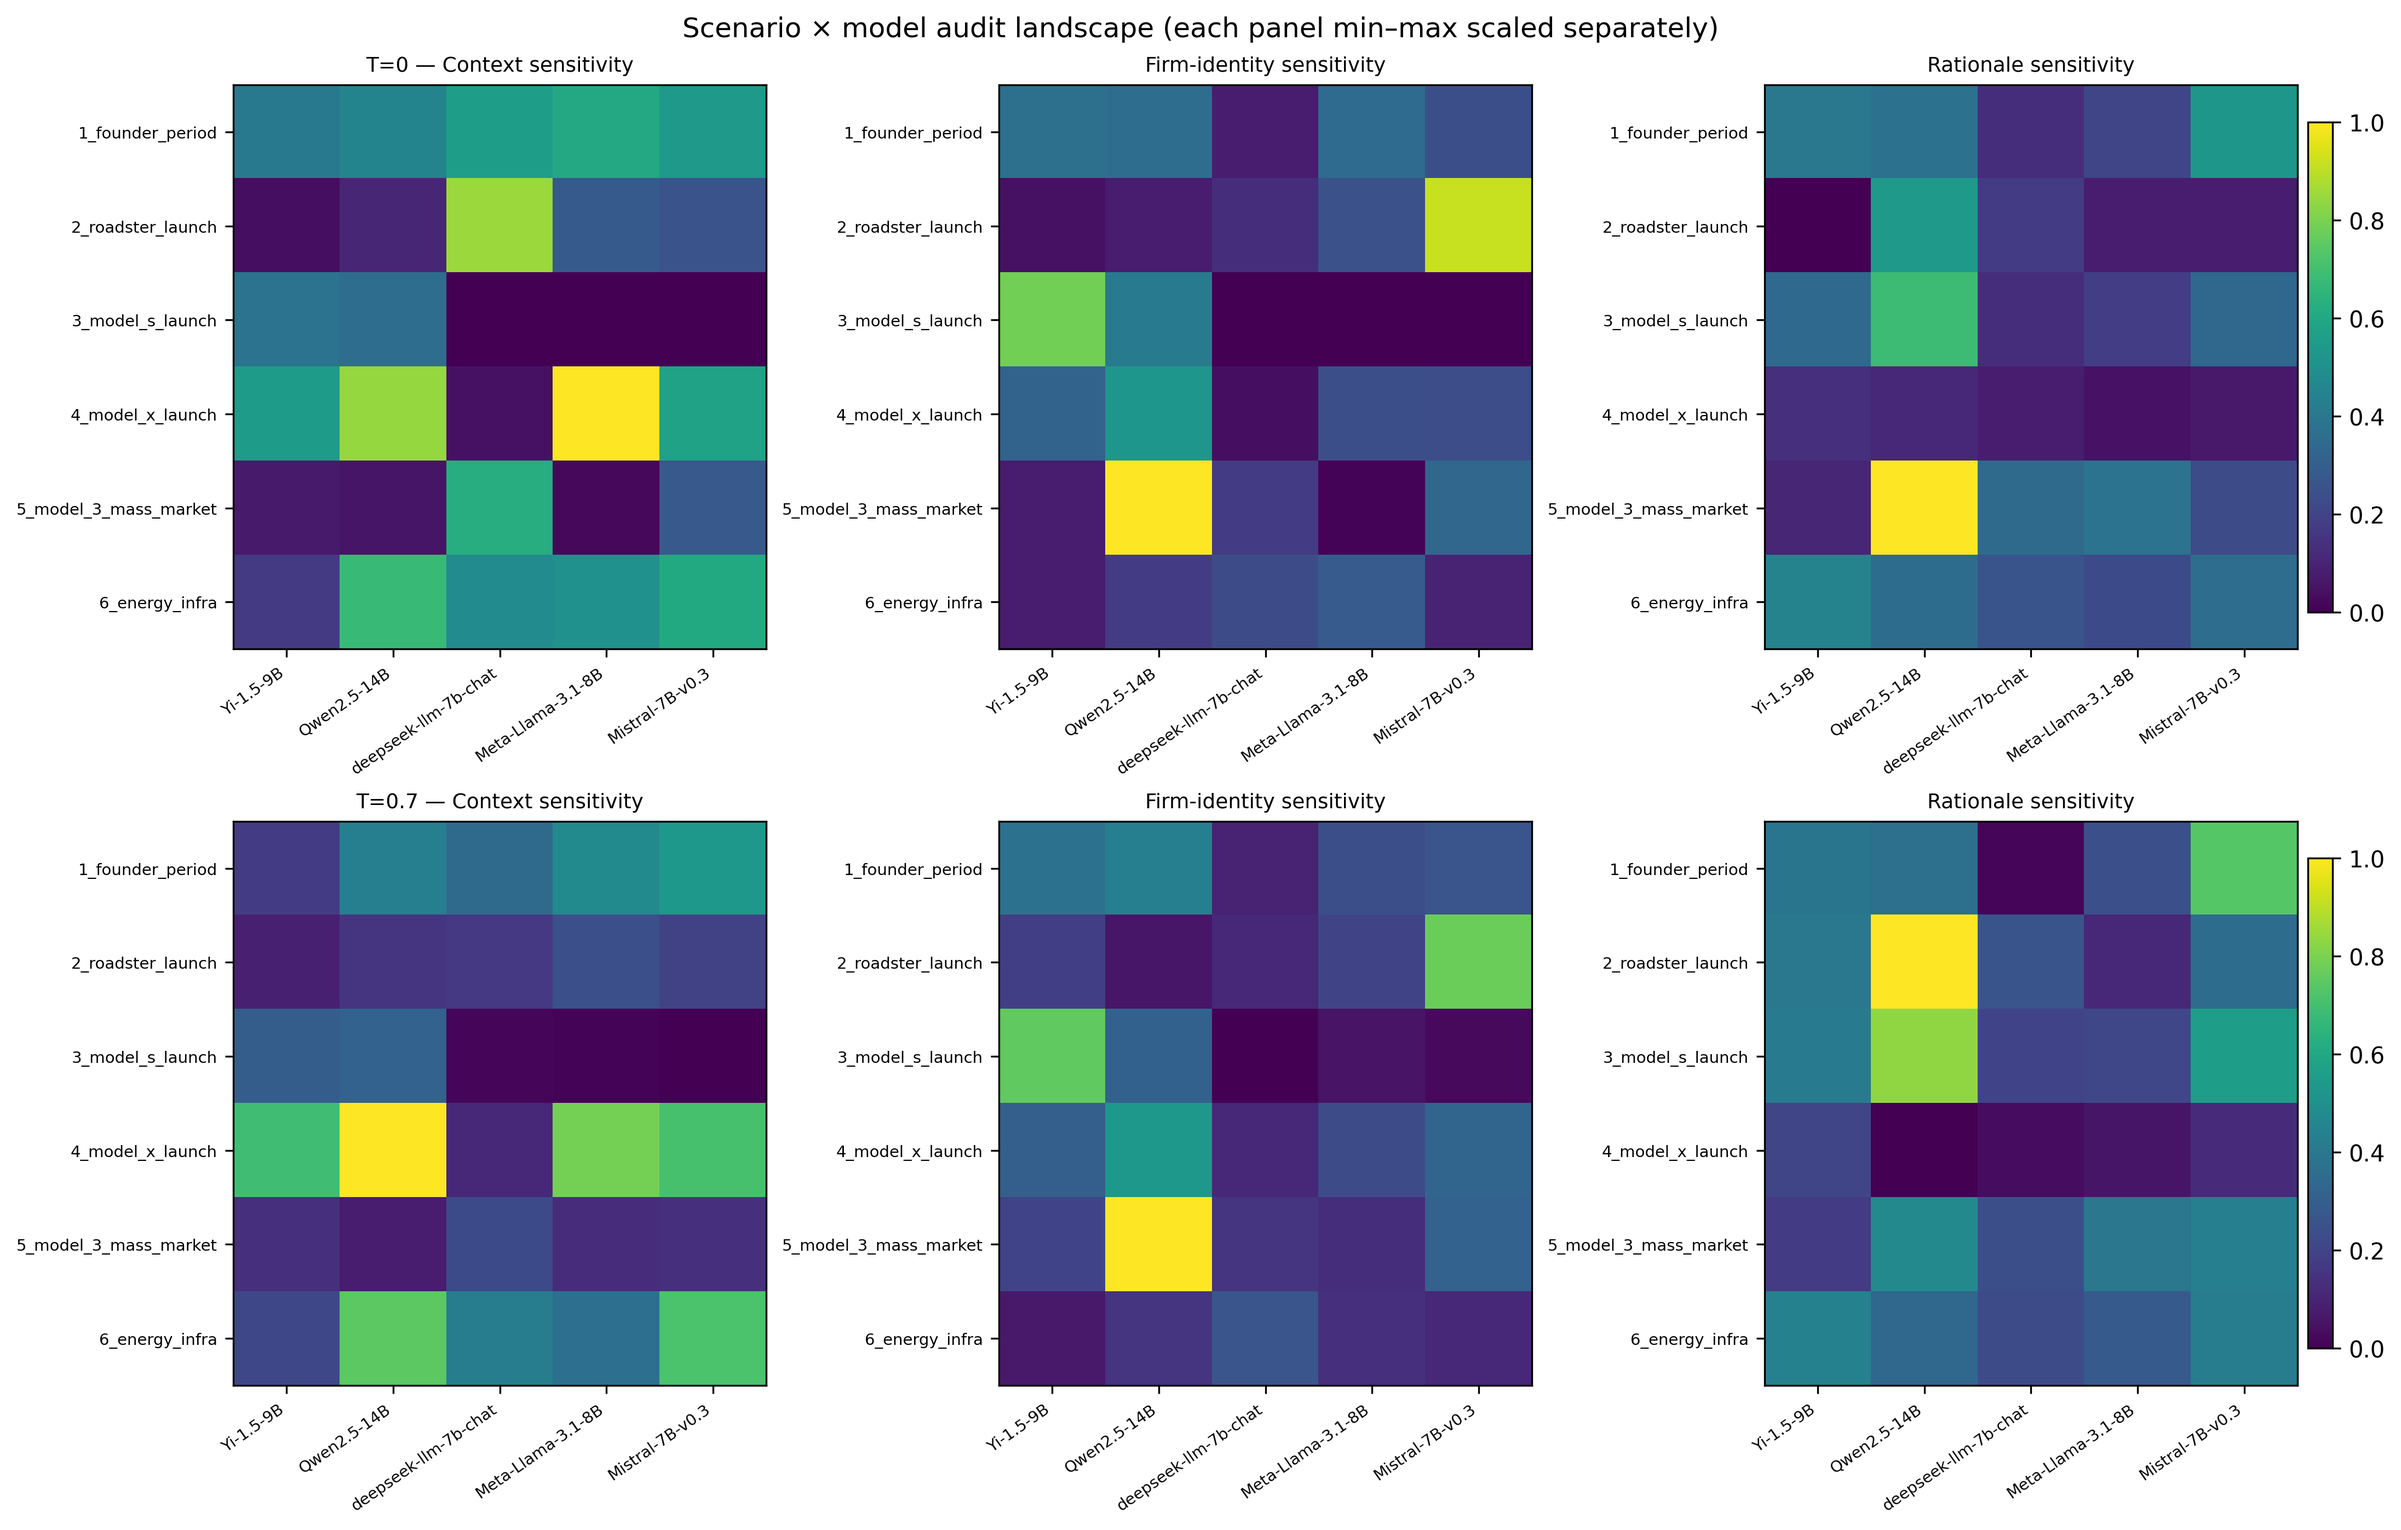
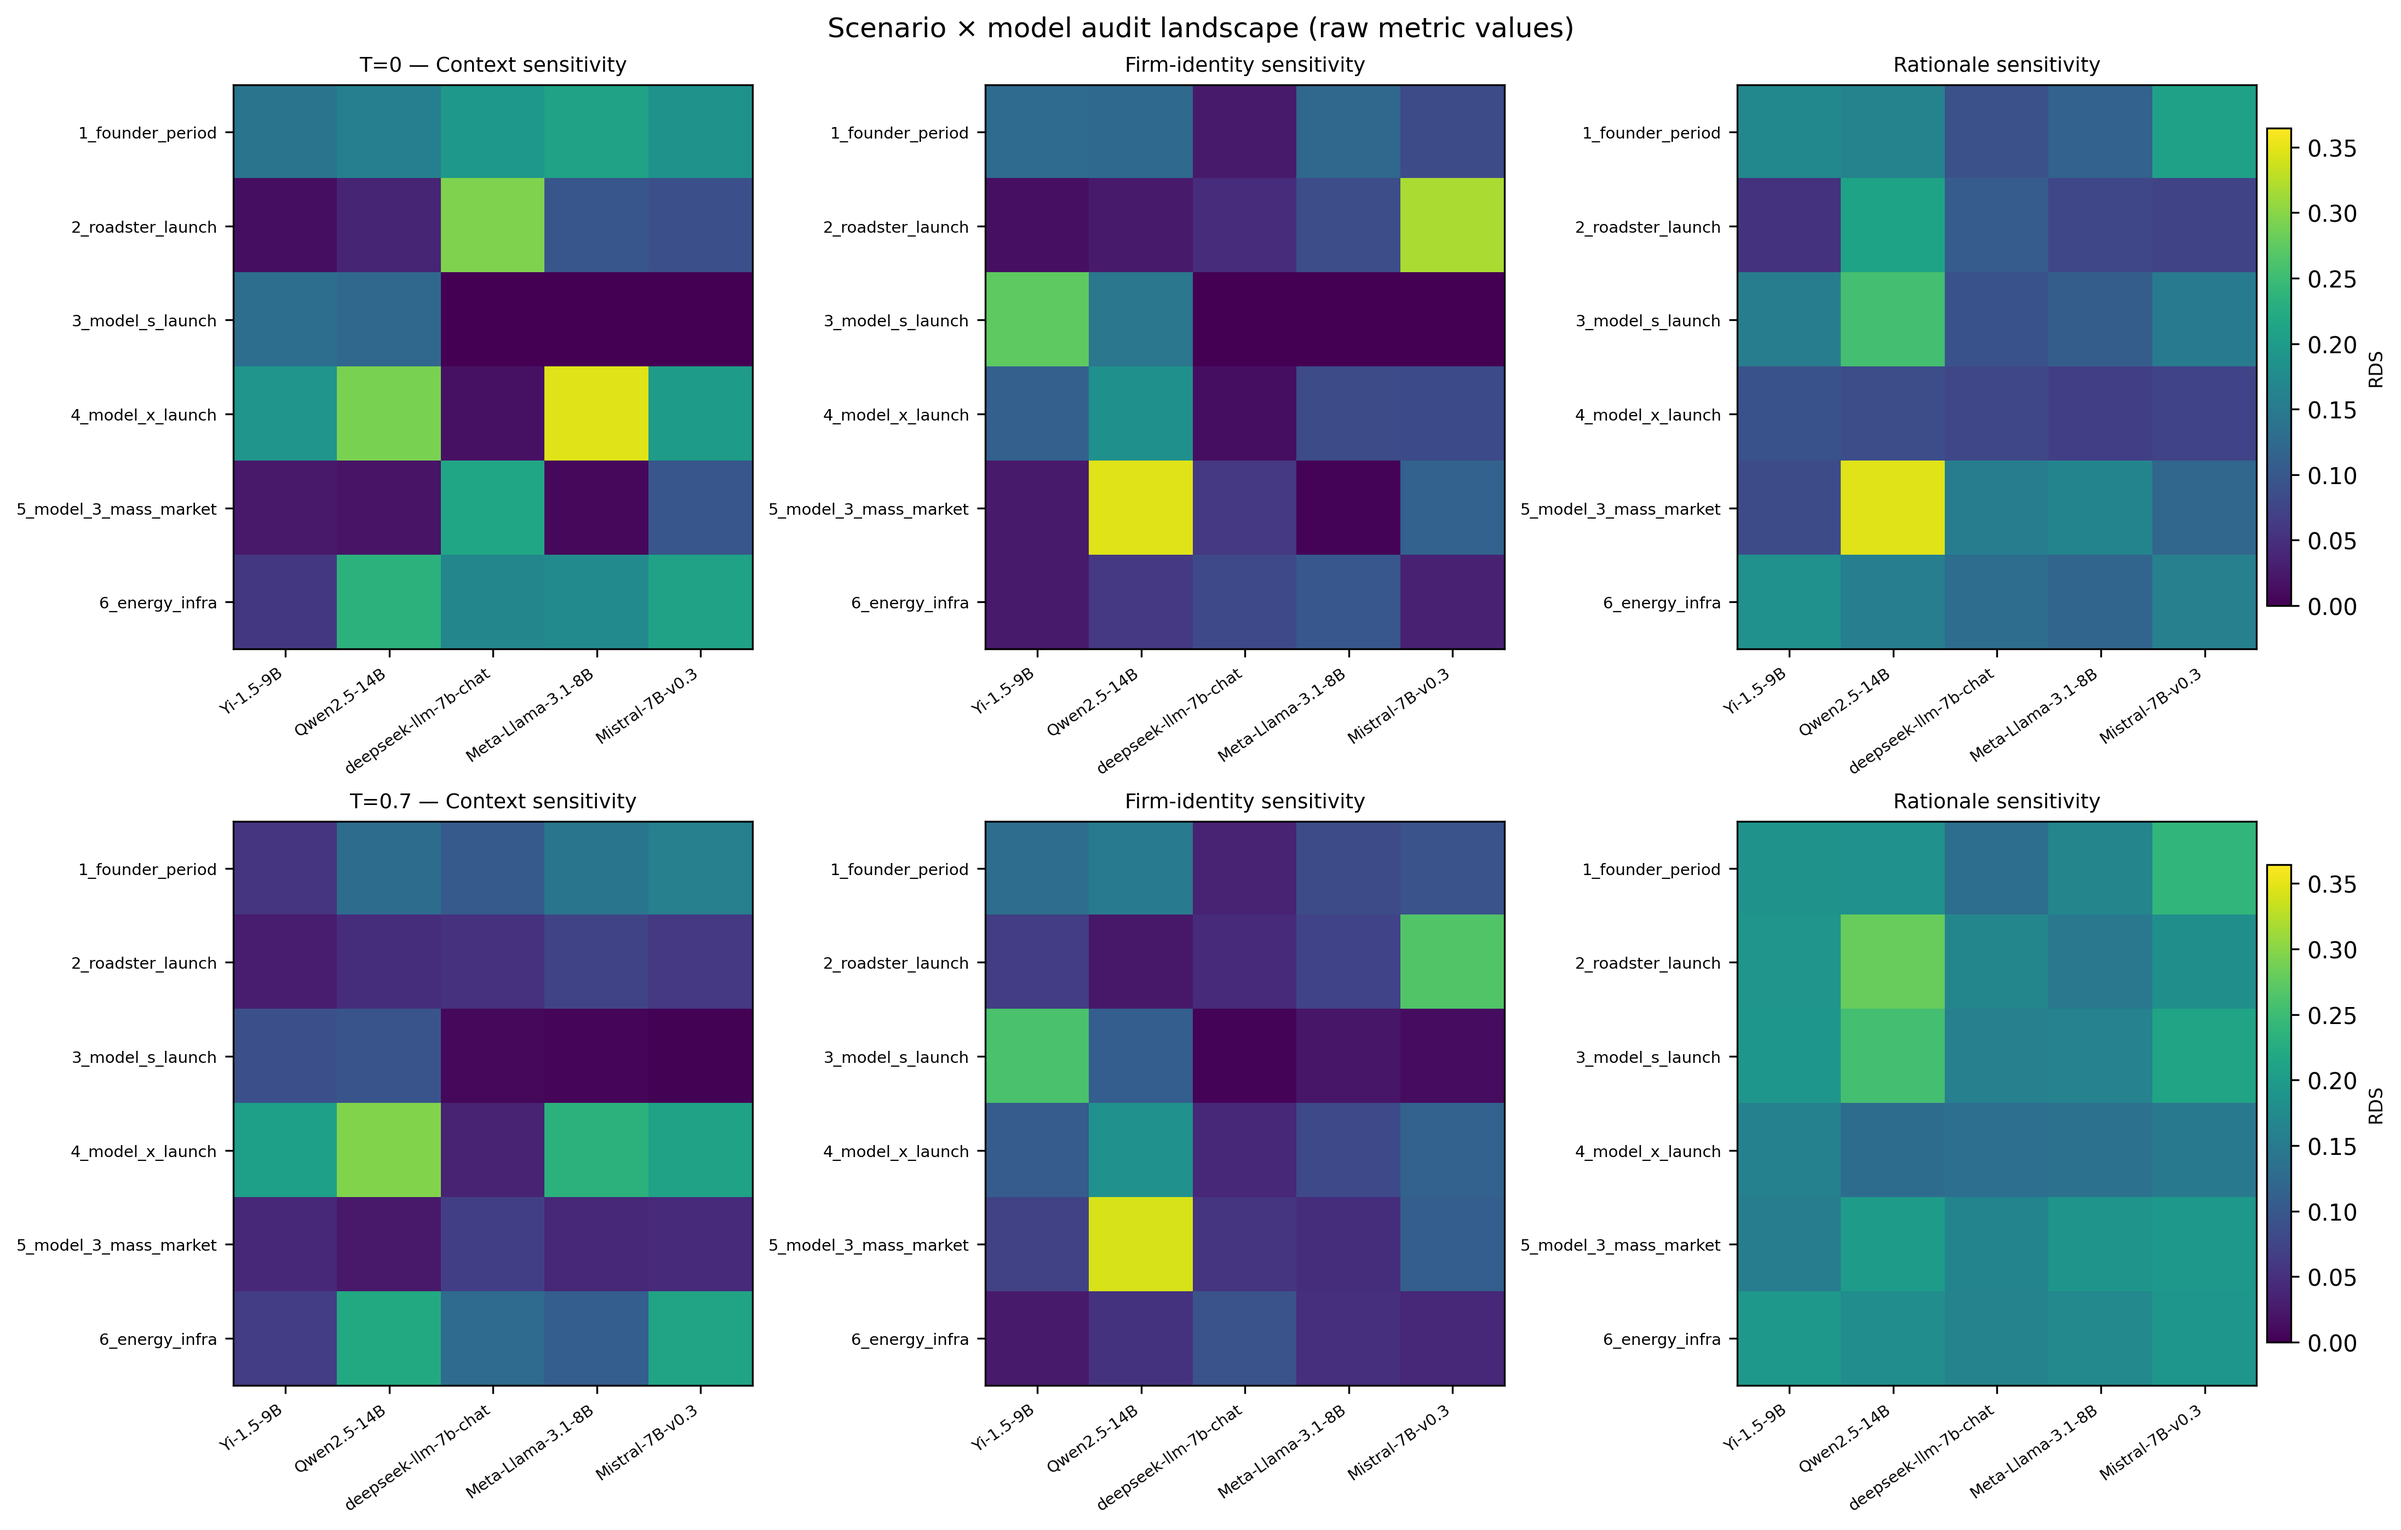
Switch Fig 8 to raw heatmaps and refine §5.6.2 case ordering.
Plot scenario×model landscapes on raw metric scales with shared per-column limits, update Table 6 wording, and present Cases I–III sequentially in the landscape paragraph.

diff --git a/result_analysis/audit_localization_metrics.py b/result_analysis/audit_localization_metrics.py
@@ -21,7 +21,7 @@ firm-identity uses mean max |Δp| per scenario cell (§5.3); RDS follows Section
 from __future__ import annotations
 
 import os
-from typing import Dict, List, Optional
+from typing import Dict, List, Optional, Tuple
 
 import matplotlib.pyplot as plt
 import numpy as np
@@ -179,6 +179,29 @@ def _minmax01_2d(a: np.ndarray) -> np.ndarray:
     return out
 
 
+def _metric_limits(
+    d: pd.DataFrame,
+    metrics: List[str],
+    *,
+    pad_frac: float = 0.05,
+) -> Dict[str, Tuple[float, float]]:
+    """Shared vmin/vmax per metric column (raw scale, lower bound 0)."""
+    limits: Dict[str, Tuple[float, float]] = {}
+    for col in metrics:
+        vals = d[col].astype(float)
+        hi = float(np.nanmax(vals)) if np.isfinite(vals).any() else 1.0
+        hi = hi * (1.0 + pad_frac) if hi > 0 else 1.0
+        limits[col] = (0.0, hi)
+    return limits
+
+
+METRIC_CBAR_LABELS = {
+    "context_sensitivity": "JSD",
+    "firm_identity_max_delta_p": "max |Δp|",
+    "mean_rds": "RDS",
+}
+
+
 def plot_scenario_model_audit_landscape(
     scenario_audit: pd.DataFrame,
     save_dir: str,
@@ -207,6 +230,8 @@ def plot_scenario_model_audit_landscape(
             "Rationale sensitivity\nmean RDS (matched pairs)",
         ),
     ]
+    metric_cols = [m[0] for m in metrics]
+    limits = _metric_limits(d, metric_cols)
 
     for temp, dt in d.groupby("Temperature", dropna=False):
         scenarios = sorted(dt["scenario"].astype(str).unique())
@@ -226,20 +251,19 @@ def plot_scenario_model_audit_landscape(
                     v = sub[col].astype(float)
                     mat[i, j] = float(v.iloc[0]) if np.isfinite(v.iloc[0]) else np.nan
 
-            scaled = _minmax01_2d(mat)
-            masked = np.ma.masked_invalid(scaled)
-
-            im = ax.imshow(masked, vmin=0.0, vmax=1.0, cmap=cmap, aspect="auto")
+            vmin, vmax = limits[col]
+            masked = np.ma.masked_invalid(mat)
+            im = ax.imshow(masked, vmin=vmin, vmax=vmax, cmap=cmap, aspect="auto")
             ax.set_xticks(np.arange(len(models)))
             ax.set_xticklabels(col_labels, rotation=35, ha="right", fontsize=8)
             ax.set_yticks(np.arange(len(scenarios)))
             ax.set_yticklabels(scenarios, fontsize=8)
             ax.set_title(title, fontsize=10)
             cbar = fig.colorbar(im, ax=ax, fraction=0.046, pad=0.02)
-            cbar.set_label("min–max scaled", fontsize=8)
+            cbar.set_label(METRIC_CBAR_LABELS[col], fontsize=8)
 
         fig.suptitle(
-            f"Scenario × model audit landscape (each panel scaled separately) @ T={tfloat:g}",
+            f"Scenario × model audit landscape (raw metric values) @ T={tfloat:g}",
             fontsize=12,
         )
         out = os.path.join(
@@ -268,6 +292,8 @@ def plot_scenario_model_audit_landscape_paper(
         ("firm_identity_max_delta_p", "Firm-identity sensitivity"),
         ("mean_rds", "Rationale sensitivity"),
     ]
+    metric_cols = [m[0] for m in metrics]
+    limits = _metric_limits(d, metric_cols)
     scenarios = sorted(d["scenario"].astype(str).unique())
     models = sorted(d["Model"].astype(str).unique())
     col_labels = [_short_model_name(m) for m in models]
@@ -291,9 +317,9 @@ def plot_scenario_model_audit_landscape_paper(
                     v = sub[col].astype(float)
                     mat[si, mj] = float(v.iloc[0]) if np.isfinite(v.iloc[0]) else np.nan
 
-            scaled = _minmax01_2d(mat)
-            masked = np.ma.masked_invalid(scaled)
-            im = ax.imshow(masked, vmin=0.0, vmax=1.0, cmap=cmap, aspect="auto")
+            vmin, vmax = limits[col]
+            masked = np.ma.masked_invalid(mat)
+            im = ax.imshow(masked, vmin=vmin, vmax=vmax, cmap=cmap, aspect="auto")
             ax.set_xticks(np.arange(len(models)))
             ax.set_xticklabels(col_labels, rotation=35, ha="right", fontsize=7)
             ax.set_yticks(np.arange(len(scenarios)))
@@ -301,10 +327,11 @@ def plot_scenario_model_audit_landscape_paper(
             row_title = f"T={float(temp):g} — {title}" if j == 0 else title
             ax.set_title(row_title if j == 0 else title, fontsize=9)
             if j == len(metrics) - 1:
-                fig.colorbar(im, ax=ax, fraction=0.046, pad=0.02)
+                cbar = fig.colorbar(im, ax=ax, fraction=0.046, pad=0.02)
+                cbar.set_label(METRIC_CBAR_LABELS[col], fontsize=8)
 
     fig.suptitle(
-        "Scenario × model audit landscape (each panel min–max scaled separately)",
+        "Scenario × model audit landscape (raw metric values)",
         fontsize=12,
     )
     plt.savefig(save_path, dpi=300, bbox_inches="tight")

diff --git a/ESWA_paper_harvard_0708.md b/ESWA_paper_harvard_0708.md
@@ -249,7 +249,7 @@ We therefore profile localization using the same sensitivity metrics computed wi
 
 *Rationale sensitivity* — mean RDS over matched Generic–Specific rationale pairs within the cell (strategy and context variant held fixed).
 
-Table 6 reports these three sensitivity magnitudes for each architecture at $T=0.0$ and $T=0.7$, after macro-averaging the cell-level values across scenarios. Columns correspond to mean context JSD, mean max \|Δ*p*\|, and mean RDS; a model that ranks high on one axis need not rank high on the others.
+Table 6 reports these three sensitivity magnitudes for each architecture at $T=0.0$ and $T=0.7$, after macro-averaging the eligible cell-level values across the full scenario set. Columns correspond to mean context JSD, mean max \|Δ*p*\|, and mean RDS.
 
 | Model | $T$ | Mean context JSD | Mean max \|Δ*p*\| | Mean RDS |
 | :---- | :--: | :----: | :----: | :----: |
@@ -266,16 +266,16 @@ Table 6 reports these three sensitivity magnitudes for each architecture at $T=0
 
 Table 6. Model-level summaries of context sensitivity (mean max JSD from *base*), firm-identity sensitivity (mean max \|Δ*p*\|), and rationale sensitivity (mean RDS), each macro-averaged over scenarios.
 
-Three patterns follow. First, Qwen2.5-14B-Instruct shows the highest mean max \|Δ*p*\| at both temperatures (0.404 at $T=0.0$; 0.394 at $T=0.7$), indicating that brand exposure can swing individual archetype probabilities more for this architecture than for DeepSeek (0.103; 0.123), even though lower firm-identity \|Δ*p*\| does not imply uniformly low context or rationale sensitivity. Second, DeepSeek-LLM-7B-Chat and Qwen2.5-14B-Instruct lead on mean context JSD at $T=0.0$ (0.278 and 0.270), confirming that context-shift magnitude varies independently of firm-identity shift. Third, raising temperature from 0.0 to 0.7 reduces mean context JSD for every model (e.g., Qwen: 0.270 → 0.255) but does not uniformly lower mean max \|Δ*p*\| or mean RDS—Qwen firm-identity peaks fall slightly (0.404 → 0.394) while Yi rises (0.265 → 0.301), and mean RDS increases for Qwen (0.171 → 0.199) and Yi (0.131 → 0.179)—choice-level brand separation, context-shift magnitude, and rationale-level divergence therefore decouple under stochastic decoding, and localized hotspots remain below.
+Three patterns emerge from Table 6. First, Qwen2.5-14B-Instruct shows the highest mean max \|Δ*p*\| at both temperatures (0.404 at $T=0.0$; 0.394 at $T=0.7$), whereas DeepSeek-LLM-7B-Chat records the lowest (0.103; 0.123). Second, DeepSeek-LLM-7B-Chat and Qwen2.5-14B-Instruct lead on mean context JSD at $T=0.0$ (0.278 and 0.270). Third, raising temperature from 0.0 to 0.7 reduces mean context JSD for every model (e.g., Qwen: 0.270 → 0.255) but does not uniformly lower mean max \|Δ*p*\| or mean RDS—Qwen firm-identity peaks fall slightly (0.404 → 0.394) while Yi rises (0.265 → 0.301), and mean RDS increases for Qwen (0.171 → 0.199) and Yi (0.131 → 0.179).
 
 **5.6.2 Model×Scenario Landscape**
 
-Aggregates in Table 6 conceal which scenario drives each elevation. Scenario-resolved profiling shows that context JSD, firm-identity \|Δ*p*\|, and RDS do not co-move across the grid: a cell with low firm-identity separation can exhibit high context JSD, and rationale divergence can peak even when strategy labels are stable.
+Architecture-wide means average over scenarios and therefore hide which model × scenario × temperature cells drive each elevation. We next resolve the same three metrics at that cell level and map where sensitivity concentrates in specific deployment contexts. Fig. 8 displays the full scenario × model grid at $T=0.0$ and $T=0.7$ on the raw metric scale.
 
-Context sensitivity is sparse but intense: the largest perturbation-variant JSD in the benchmark grid reaches 0.651 (*4\_model\_x\_launch*, Llama-3.1-8B-Instruct, $T=0.0$). Firm-identity hotspots concentrate on *5\_model\_3\_mass\_market* under Qwen2.5-14B-Instruct, where Generic vs. Specific framing shifts the modal strategy (Section 5.6.3, Case I). Rationale sensitivity peaks for Maintain under *count\_fact* in *2\_roadster\_launch* under Qwen2.5-14B-Instruct (Case III), while cohort-wide the same strategy × context cell is highest in Fig. 7 (mean RDS = 0.197). Because no model dominates all three metrics, localized profiling must be scoped to the production scenario set and model–temperature configuration. Fig. 8 maps the full scenario × model grid on the three sensitivity axes at $T=0.0$ and $T=0.7$ (each panel min–max scaled separately).
+Context JSD, firm-identity \|Δ*p*\|, and RDS do not co-move across the grid: a cell with low firm-identity separation can exhibit high context JSD, and rationale divergence can peak even when strategy labels are stable. Firm-identity hotspots concentrate on *5\_model\_3\_mass\_market* under Qwen2.5-14B-Instruct, where Generic vs. Specific framing shifts the modal strategy (Case I, below). Context sensitivity is sparse but intense—the largest perturbation-variant JSD in the benchmark grid reaches 0.651 (*4\_model\_x\_launch*, Llama-3.1-8B-Instruct, $T=0.0$; Case II, below). Cohort-wide, Maintain under *count\_fact* marks the highest mean RDS in Fig. 7 (0.197); Case III localizes this pattern in *2\_roadster\_launch* under Qwen2.5-14B-Instruct, where matched-choice rationales diverge sharply (peak pair RDS = 0.689). Localized profiling must therefore be scoped to the production scenario set and model–temperature configuration rather than inferred from architecture-wide means alone.
 
 ![Audit_scenario_model_landscape](final_results/plots/eval_audit_scenario_model_landscape__paper.png)  
-Fig. 8. Scenario × model audit landscape: context sensitivity (max JSD from *base* over perturbation variants, including *randomized\_numbers*), firm-identity sensitivity (max \|Δ*p*\|), and rationale sensitivity (mean RDS). Each panel is min–max scaled independently; rows = $T=0.0$ (top) and $T=0.7$ (bottom).
+Fig. 8. Scenario × model audit landscape: context sensitivity (max JSD from *base* over perturbation variants, including *randomized\_numbers*), firm-identity sensitivity (max \|Δ*p*\|), and rationale sensitivity (mean RDS). Raw metric values with a shared color scale per column across temperatures; rows = $T=0.0$ (top) and $T=0.7$ (bottom).
 
 Priority cells in Table 7 are selected as follows. For each audit axis, candidate model × scenario pairs are ranked by the **mean** of the axis metric over $T \in \{0.0, 0.7\}$; case figures report both temperatures. A qualitative filter then retains cells that exhibit an interpretable deployment-risk pattern (firm-identity modal strategy flip; context-driven menu rewrite; matched-choice rationale divergence with exemplar pairs). Where the top-ranked models would repeat across axes, the next eligible candidate within 85% of the axis maximum is preferred so that the three cases span distinct architectures when the data support it.
 
